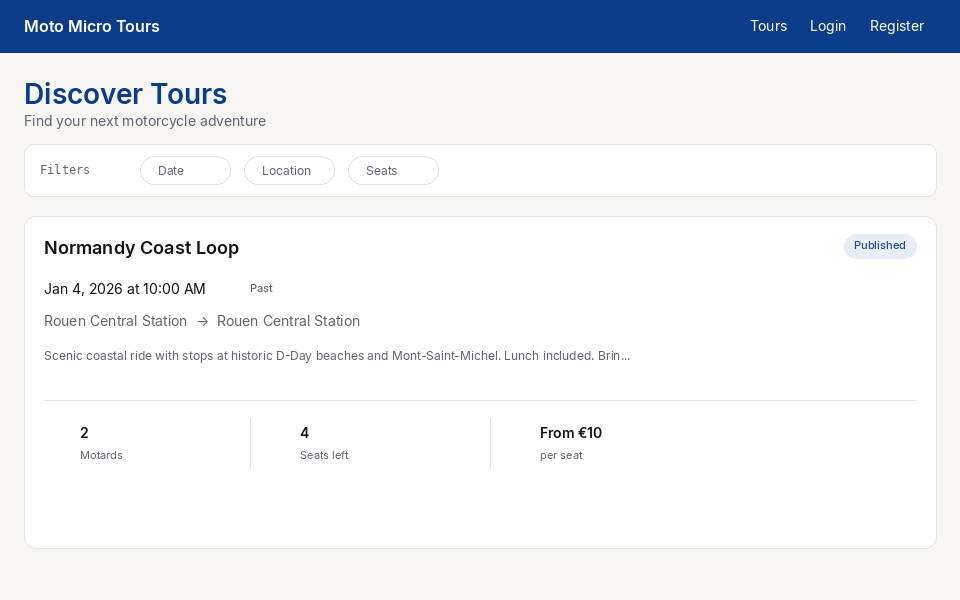
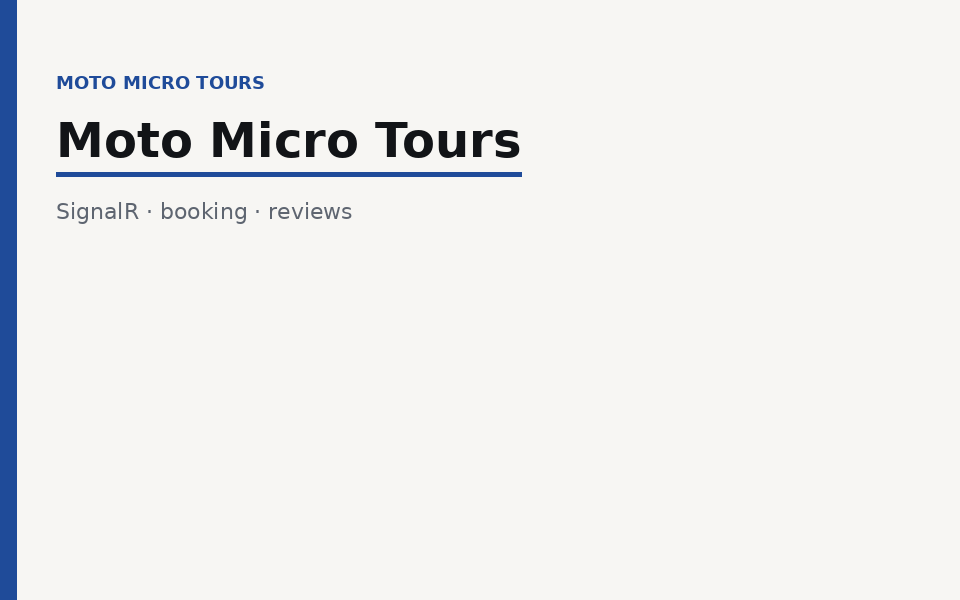
Replace reconstructed Moto UI still with a type card.

diff --git a/index.html b/index.html
@@ -149,7 +149,7 @@
               <p class="case-links"><a href="https://github.com/JayGarland/moto_micro_tours" rel="noopener" target="_blank" data-i18n="motoLink">Source on GitHub</a></p>
             </div>
             <div class="still">
-              <img src="assets/img/stills/moto-micro-tours.png" alt="Moto Micro Tours — Discover Tours" width="960" height="600">
+              <img src="assets/img/stills/moto-micro-tours.png" alt="Moto Micro Tours" width="960" height="600">
             </div>
           </article>
 
